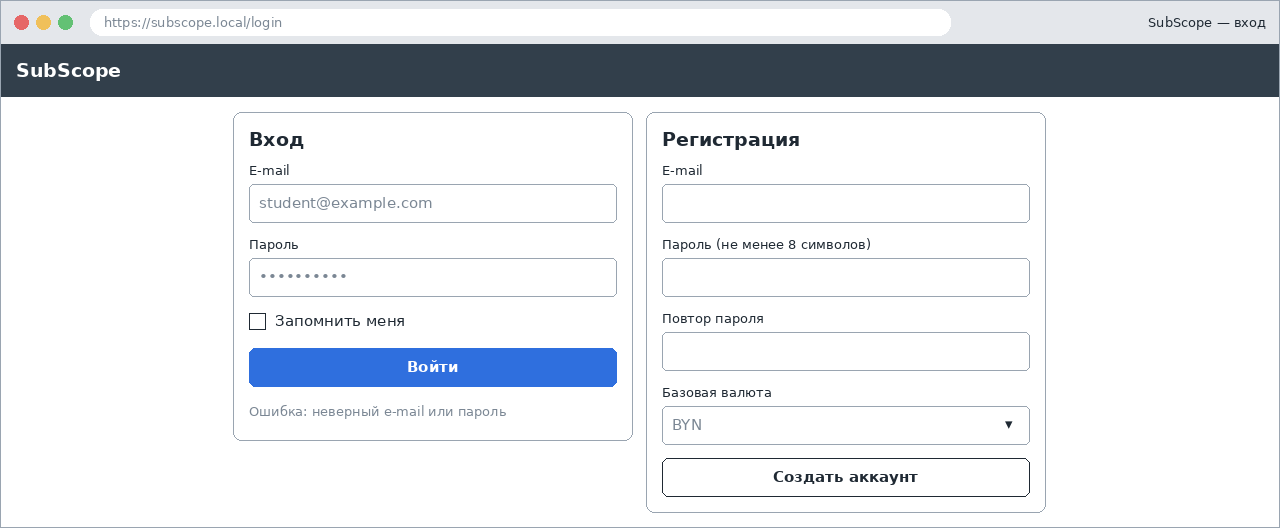
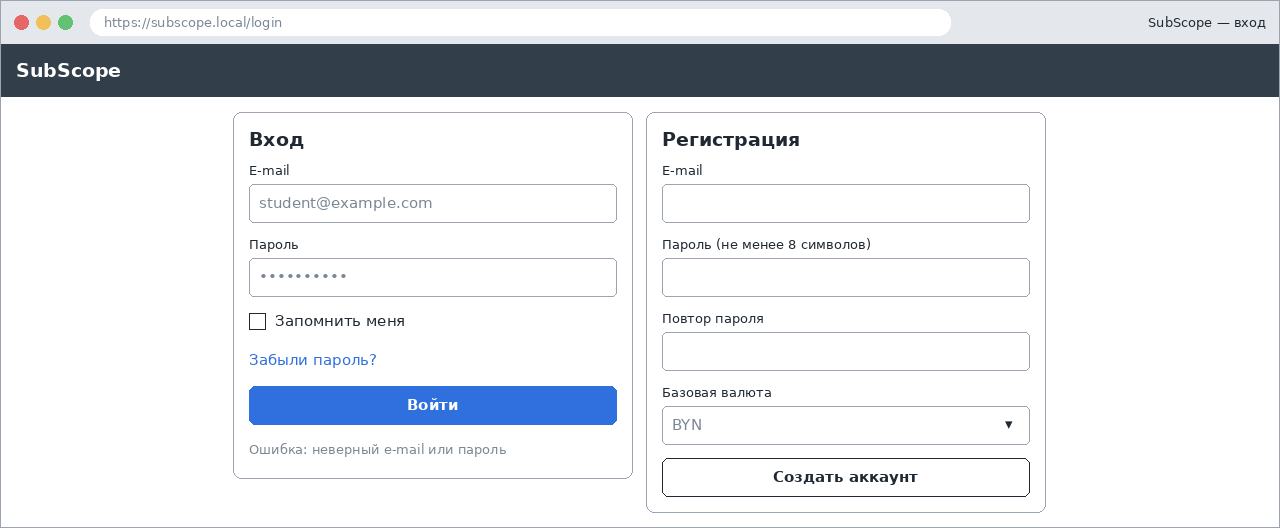
lab3: SRS v0.3 по замечаниям напарника

Changed region(s): [[0.1875, 0.6364, 0.5, 0.8788]]

diff --git a/srs/srs.md b/srs/srs.md
@@ -2,13 +2,13 @@
 
 Для SubScope — веб-приложения для учёта подписок и регулярных платежей
 
-Версия 0.2
+Версия 0.3
 
 Подготовил Родкевич Н.А., гр. 434701
 
 БГУИР, факультет компьютерных систем и сетей, кафедра ЭВМ
 
-2026-10-15
+2026-10-16
 
 ## Оглавление
 
@@ -61,6 +61,7 @@
 |---------------|------------|-----------------------------------------------------------------------------------------------------------------------------------------------------------------------------------------------------------------------------------------------------------------------------------------------------------------------------------|---------|
 | Родкевич Н.А. | 2026-10-02 | Первоначальная версия: бизнес-требования, мокапы, требования к ПО                                                                                                                                                                                                                                                                 | 0.1     |
 | Родкевич Н.А. | 2026-10-15 | Итоги интервью с Заказчиком (Приложение Б): валюты, совместные подписки, каталог сервисов, настраиваемый порог неиспользования, CON-9; Telegram и семейный учёт отложены. Новые: REQ-FUNC-019, REQ-FUNC-020. Изменены: REQ-INT-002-2, REQ-FUNC-001-2, 003-2, 004-2, 009-2, 015-2, 018-2, REQ-COMP-001-2. Обновлены мокапы 2, 4, 6 | 0.2     |
+| Родкевич Н.А. | 2026-10-16 | Замечания напарника по pull request: восстановление пароля (новое REQ-FUNC-021), время и часовой пояс напоминаний (REQ-FUNC-011-2), пробный период (REQ-FUNC-004-3, REQ-FUNC-009-3), исправление отметки использования (REQ-FUNC-012-2), импорт из CSV отложен. Обновлён мокап 1                                                  | 0.3     |
 
 ---
 
@@ -106,6 +107,7 @@ SRS фиксирует, **что** должна делать система SubS
 | Базовая валюта | Валюта, выбранная пользователем, в которую пересчитываются все суммы (по умолчанию BYN) |
 | Каталог сервисов | Справочник популярных сервисов (название и категория по умолчанию), который ведёт администратор |
 | Кандидат на отмену | Активная подписка, не отмеченная как использованная в течение порога неиспользования |
+| Время системы | Все даты и время в системе (сроки списаний, отправка напоминаний, границы месяцев) определяются по часовому поясу Europe/Minsk (UTC+3) |
 | Курс НБ РБ | Официальный курс белорусского рубля к иностранной валюте, установленный Национальным банком Республики Беларусь на дату |
 | Мокап | Схематичное изображение экрана, показывающее состав и расположение элементов интерфейса |
 | Напоминание | Письмо, отправляемое пользователю перед списанием или окончанием пробного периода |
@@ -131,7 +133,7 @@ SRS фиксирует, **что** должна делать система SubS
 
 ### 1.5 Обзор документа {#15-document-overview}
 
-Раздел 2 описывает контекст продукта, его функции, ограничения, пользователей и допущения. Раздел 3 содержит верифицируемые требования с идентификаторами вида `REQ-[AREA]-[NNN]`; слово «должна» обозначает обязательное требование, «следует» — желательное. Раздел 4 содержит матрицу верификации, раздел 5 — перечень графических материалов и открытые вопросы. Изменения вносятся через pull request в ветку `main` и фиксируются в таблице «История изменений».
+Раздел 2 описывает контекст продукта, его функции, ограничения, пользователей и допущения. Раздел 3 содержит верифицируемые требования с идентификаторами вида `REQ-[AREA]-[NNN]`; слово «должна» обозначает обязательное требование, «следует» — желательное. Раздел 4 содержит матрицу верификации, раздел 5 — перечень графических материалов, вопросы к Заказчику с принятыми решениями и журнал замечаний по pull request. Изменения вносятся через pull request в ветку `main` и фиксируются в таблице «История изменений».
 
 ---
 
@@ -147,7 +149,7 @@ SubScope — новый самостоятельный продукт, не яв
 
 ### 2.2 Функции продукта {#22-product-functions}
 
-- **Учётные записи:** регистрация, вход и выход, настройка профиля и базовой валюты, удаление аккаунта.
+- **Учётные записи:** регистрация, вход и выход, восстановление пароля, настройка профиля и базовой валюты, удаление аккаунта.
 - **Подписки:** добавление (с подсказками из каталога сервисов), изменение, удаление, приостановка и отмена; совместные подписки с делением оплаты; поиск и фильтрация списка.
 - **Обзор:** суммарные расходы в месяц и в год в базовой валюте, ближайшие списания.
 - **Курсы валют:** автоматическое получение официальных курсов НБ РБ и пересчёт сумм.
@@ -196,10 +198,10 @@ SubScope — новый самостоятельный продукт, не яв
 
 | Инкремент | Содержание | Требования |
 |-----------|------------|------------|
-| 1 — MVP | Учётные записи, ведение подписок, обзор, пересчёт валют | REQ-FUNC-001 … 010, 013, 017, 019; REQ-INT-001, 002; REQ-SEC-001 … 003 |
+| 1 — MVP | Учётные записи, ведение подписок, обзор, пересчёт валют | REQ-FUNC-001 … 010, 013, 017, 019, 021; REQ-INT-001, 002; REQ-SEC-001 … 003 |
 | 2 | Напоминания, отметки использования, кандидаты на отмену | REQ-FUNC-011, 012, 015; REQ-INT-003; REQ-REL-001; REQ-OBS-001 |
 | 3 | Аналитика, экспорт, администрирование, каталог сервисов | REQ-FUNC-014, 016, 018, 020 |
-| Отложено | Импорт списаний из банковских выписок, мобильное приложение, push-уведомления, напоминания в Telegram, семейный учёт (общий список для нескольких учётных записей) | Вне релиза 1.0 |
+| Отложено | Импорт списаний из банковских выписок, мобильное приложение, push-уведомления, напоминания в Telegram, семейный учёт (общий список для нескольких учётных записей), импорт подписок из CSV | Вне релиза 1.0 |
 
 ---
 
@@ -215,7 +217,7 @@ SubScope — новый самостоятельный продукт, не яв
 
 | № | Экран | Мокап | Связанные требования |
 |---|-------|-------|----------------------|
-| 1 | Вход и регистрация | [mockup-01-login.png](images/mockup-01-login.png) | REQ-FUNC-001, 002 |
+| 1 | Вход и регистрация | [mockup-01-login.png](images/mockup-01-login.png) | REQ-FUNC-001, 002, 021 |
 | 2 | Обзор | [mockup-02-dashboard.png](images/mockup-02-dashboard.png) | REQ-FUNC-009, 010, 012, 013, 015 |
 | 3 | Список подписок | [mockup-03-subscription-list.png](images/mockup-03-subscription-list.png) | REQ-FUNC-006, 007, 008, 012, 016 |
 | 4 | Форма подписки | [mockup-04-subscription-form.png](images/mockup-04-subscription-form.png) | REQ-FUNC-004, 005, 013, 019, 020 |
@@ -337,9 +339,21 @@ SubScope — новый самостоятельный продукт, не яв
 - **Verification Method:** Test
 - **More Information:** Рисунок 3.6. Версия 2: перечень базовых валют, порог неиспользования.
 
+- **ID:** REQ-FUNC-021
+- **Title:** Восстановление пароля
+- **Statement:** Система должна позволять пользователю, забывшему пароль, задать новый пароль по ссылке, отправленной на e-mail учётной записи.
+- **Rationale:** Без восстановления пароля пользователь теряет доступ к своим данным, а напоминания продолжают приходить на почту без возможности их настроить.
+- **Acceptance Criteria:**
+  - на странице входа есть ссылка «Забыли пароль?», ведущая к форме ввода e-mail;
+  - после ввода e-mail выводится одно и то же сообщение «Если такой адрес зарегистрирован, на него отправлено письмо» независимо от того, существует ли учётная запись;
+  - ссылка в письме одноразовая и действует 1 час; после её использования или истечения срока смена пароля по ней невозможна;
+  - к новому паролю применяются правила REQ-FUNC-001; после смены пароля все прежние сеансы пользователя завершаются.
+- **Verification Method:** Test
+- **More Information:** Добавлено по замечанию напарника в pull request (замечание 2); рисунок 3.1; REQ-INT-003, REQ-SEC-001.
+
 #### Подписки
 
-- **ID:** REQ-FUNC-004-2
+- **ID:** REQ-FUNC-004-3
 - **Title:** Добавление подписки
 - **Statement:** Система должна позволять пользователю добавить подписку, указав название сервиса, цену, валюту, период списания и дату следующего списания (обязательные поля), а также категорию, число участников совместной подписки, дату окончания пробного периода, срок напоминания и заметку (необязательные поля).
 - **Rationale:** BG-1. Список подписок — основа всех остальных функций.
@@ -349,10 +363,11 @@ SubScope — новый самостоятельный продукт, не яв
   - название — от 1 до 100 символов; заметка — до 500 символов;
   - период списания выбирается из значений: неделя, месяц, квартал, год;
   - число участников — целое от 1 до 10, по умолчанию 1 (REQ-FUNC-019);
-  - дата следующего списания в прошлом отклоняется;
+  - дата следующего списания раньше текущей даты отклоняется;
+  - если указана дата окончания пробного периода, она не может быть позже даты следующего списания; при нарушении поле помечается сообщением об ошибке;
   - при незаполненном обязательном поле подписка не сохраняется, поле помечается сообщением об ошибке.
 - **Verification Method:** Test
-- **More Information:** Рисунок 3.4. Версия 2: поле «Число участников».
+- **More Information:** Рисунок 3.4. Версия 2: поле «Число участников». Версия 3: согласование дат пробного периода и списания (замечание 3).
 
 - **ID:** REQ-FUNC-005
 - **Title:** Изменение подписки
@@ -424,7 +439,7 @@ SubScope — новый самостоятельный продукт, не яв
 
 #### Обзор и курсы
 
-- **ID:** REQ-FUNC-009-2
+- **ID:** REQ-FUNC-009-3
 - **Title:** Суммарные расходы
 - **Statement:** Система должна показывать на экране «Обзор» суммарную стоимость активных подписок в месяц и в год в базовой валюте, число активных подписок и число кандидатов на отмену с их суммарной стоимостью в месяц.
 - **Rationale:** BG-1.
@@ -432,10 +447,10 @@ SubScope — новый самостоятельный продукт, не яв
   - стоимость в месяц приводится к месяцу: недельная цена × 52 / 12, квартальная / 3, годовая / 12;
   - стоимость в год равна стоимости в месяц × 12;
   - суммы округляются до двух знаков и выводятся с обозначением базовой валюты;
-  - подписки в пробном периоде учитываются с даты его окончания;
+  - подписка в пробном периоде не входит в суммы «в месяц» и «в год», пока не наступила дата окончания пробного периода; до этой даты она показывается только в ближайших списаниях (REQ-FUNC-010);
   - для совместной подписки учитывается доля пользователя (REQ-FUNC-019).
 - **Verification Method:** Test
-- **More Information:** Рисунок 3.2. Версия 2: учёт доли в совместных подписках.
+- **More Information:** Рисунок 3.2. Версия 2: учёт доли в совместных подписках. Версия 3: уточнён учёт пробного периода (замечание 3).
 
 - **ID:** REQ-FUNC-010
 - **Title:** Ближайшие списания
@@ -462,28 +477,30 @@ SubScope — новый самостоятельный продукт, не яв
 
 #### Напоминания и контроль использования
 
-- **ID:** REQ-FUNC-011
+- **ID:** REQ-FUNC-011-2
 - **Title:** Напоминания о списании и об окончании пробного периода
 - **Statement:** Система должна отправлять пользователю письмо за заданное число дней до списания по активной подписке и до окончания пробного периода.
 - **Rationale:** BG-2.
 - **Acceptance Criteria:**
   - срок напоминания выбирается из значений 1, 3, 7 дней; значение по умолчанию задаётся в настройках (3 дня) и может быть изменено для отдельной подписки;
+  - письма отправляются один раз в сутки в 09:00 по времени Europe/Minsk; число дней до списания отсчитывается по календарным датам этого часового пояса;
   - по каждому списанию отправляется не более одного письма;
   - пользователь может отключить напоминания о списаниях и о пробных периодах по отдельности; после отключения письма не отправляются;
   - содержание письма соответствует REQ-INT-003.
 - **Verification Method:** Test
-- **More Information:** Рисунки 3.4, 3.6.
+- **More Information:** Рисунки 3.4, 3.6. Версия 2: время отправки и часовой пояс (замечание 1).
 
-- **ID:** REQ-FUNC-012
+- **ID:** REQ-FUNC-012-2
 - **Title:** Отметка использования
 - **Statement:** Система должна позволять пользователю отметить для каждой активной подписки, пользовался ли он ею в текущем месяце.
 - **Rationale:** BG-3. Отметки — исходные данные для рекомендаций по отмене.
 - **Acceptance Criteria:**
   - отметка ставится и снимается одним действием в списке подписок;
   - отметки хранятся по каждому календарному месяцу отдельно;
-  - в начале месяца отметки текущего месяца не установлены.
+  - в начале месяца отметки текущего месяца не установлены;
+  - отметку за прошедший месяц можно поставить или снять в течение первых 7 дней следующего месяца; кандидаты на отмену (REQ-FUNC-015) по прошедшему месяцу определяются после окончания этого срока.
 - **Verification Method:** Test
-- **More Information:** Рисунок 3.3.
+- **More Information:** Рисунок 3.3. Версия 2: исправление отметок за прошедший месяц (замечание 4).
 
 - **ID:** REQ-FUNC-015-2
 - **Title:** Кандидаты на отмену
@@ -777,7 +794,7 @@ SubScope — новый самостоятельный продукт, не яв
 | REQ-INT-001 | Demonstration, Inspection | Мокапы 1–6, показ Заказчику | Draft | |
 | REQ-INT-002 | Test | Интеграционный тест клиента курсов | Draft | |
 | REQ-INT-003 | Test | Тест с тестовым SMTP-сервером | Draft | |
-| REQ-FUNC-001 … 003 | Test | Тесты учётных записей | Draft | |
+| REQ-FUNC-001 … 003, 021 | Test | Тесты учётных записей и восстановления пароля | Draft | |
 | REQ-FUNC-004 … 008, 017, 019 | Test | Тесты ведения подписок | Draft | |
 | REQ-FUNC-009, 010, 013 | Test | Модульные тесты расчёта сумм и пересчёта | Draft | |
 | REQ-FUNC-011, 012, 015 | Test | Тесты напоминаний и рекомендаций | Draft | |
@@ -829,3 +846,17 @@ SubScope — новый самостоятельный продукт, не яв
 | 5 | Достаточен ли порог «два месяца без использования» для кандидата на отмену? | Порог должен выбирать сам пользователь: 1, 2 или 3 месяца, по умолчанию 2 | REQ-FUNC-015-2, REQ-FUNC-003-2; глоссарий; мокапы 2 и 6 |
 
 Дополнительно Заказчик потребовал, чтобы в приложении не было рекламы и данные пользователей не передавались третьим лицам (CON-9, REQ-COMP-001-2), и уточнил показатель успеха BG-3.
+
+### Приложение В. Замечания по pull request и решения
+
+Замечания напарника к версии 0.2 (pull request из ветки `lab3`). Принятые замечания внесены в версию 0.3.
+
+| № | Раздел | Замечание | Решение | Обоснование |
+|---|--------|-----------|---------|-------------|
+| 1 | REQ-FUNC-011 | Не указано, в какое время и по какому часовому поясу отправляются напоминания; «за 3 дня» можно понять по-разному | Принято: REQ-FUNC-011-2, термин «Время системы» в глоссарии | Без этого требование нельзя однозначно проверить тестом |
+| 2 | 3.2, мокап 1 | Нет восстановления пароля: пользователь, забывший пароль, теряет доступ к данным | Принято: новое REQ-FUNC-021, ссылка «Забыли пароль?» на мокапе 1 | Типовой сценарий, без которого нарушается BG-2: напоминания приходят, а настроить их нельзя |
+| 3 | REQ-FUNC-004, 009 | Неясно, входит ли подписка в пробном периоде в сумму «в месяц» и как связаны дата окончания пробного периода и дата списания | Принято: REQ-FUNC-004-3, REQ-FUNC-009-3 | Неоднозначность влияет на главный показатель BG-1 |
+| 4 | REQ-FUNC-012 | Если пользователь забыл поставить отметку до конца месяца, подписка ошибочно станет кандидатом на отмену | Принято: REQ-FUNC-012-2 (7 дней на исправление) | Ложные рекомендации снижают доверие к функции BG-3 |
+| 5 | 2.2 | Добавить импорт подписок из CSV | Отложено: раздел 2.6 | У целевого пользователя 3–10 подписок, ручной ввод с каталогом (REQ-FUNC-020) занимает несколько минут; импорт не влияет на бизнес-цели и увеличил бы инкремент 1 |
+| 6 | DEP-1 | Делать интерфейс на React вместо Thymeleaf | Отклонено | SRS описывает, что должна делать система, а не как; выбор технологии интерфейса — проектное решение, оно будет рассмотрено в ADR на этапе проектирования. Требования к интерфейсу (REQ-INT-001) от выбора не зависят |
+| 7 | REQ-SEC-001 | Вместо блокировки после 5 неудачных попыток входа использовать CAPTCHA | Отклонено | Распространённые сервисы CAPTCHA передают данные пользователя третьей стороне, что противоречит CON-9; при масштабе проекта (ASM-5) временной блокировки на 15 минут достаточно |
